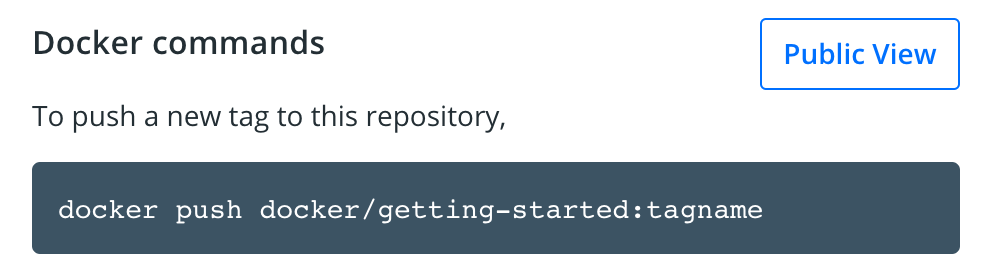
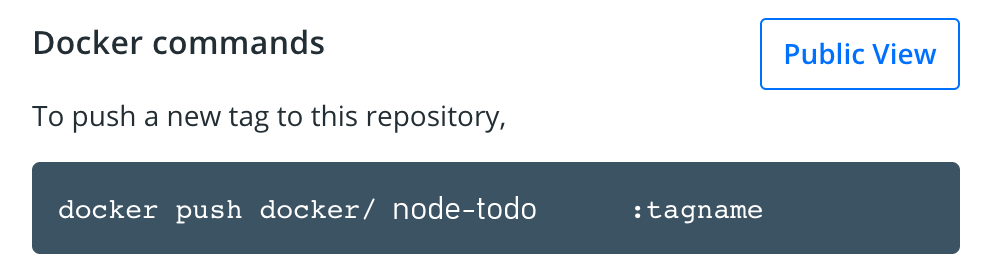
Update

Changed region(s): [[0.3735, 0.7143, 0.6536, 0.8]]

diff --git a/docs/css/styles.css b/docs/css/styles.css
@@ -44,6 +44,10 @@ h1, h2, h3, h4, .md-footer-nav__inner, .md-header-nav__title, footer.md-footer {
     font-family: Geomanist;
 }
 
+.document a {
+    text-decoration: underline;
+}
+
 .rst-content pre code {
     color: #24292f;
     background-color: #f6f8fa;
@@ -60,10 +64,6 @@ h1, h2, h3, h4, .md-footer-nav__inner, .md-header-nav__title, footer.md-footer {
     border-radius: 3px;
     font-size: 85%;
 }
-
-/* .hljs-string {
-    color: #27ae60;
-} */
 
 .rst-content blockquote {
     padding: 0 1em;

diff --git a/src/static/js/app.js b/src/static/js/app.js
@@ -53,7 +53,7 @@ function TodoListCard() {
         <React.Fragment>
             <AddItemForm onNewItem={onNewItem} />
             {items.length === 0 && (
-                <p className="text-center">You have no todo items yet! Add one above!</p>
+                <p className="text-center">No items yet! Add one above!</p>
             )}
             {items.map(item => (
                 <ItemDisplay

diff --git a/docs/tutorial/sharing-our-app/index.md b/docs/tutorial/sharing-our-app/index.md
@@ -1,62 +1,63 @@
+# Share the application
 
 Now that we've built an image, let's share it! To share Docker images, you have to use a Docker
-registry. The default registry is Docker Hub and is where all of the images we've used have come from.
+registry. The default registry is `Docker Hub` and is where all of the images we've used have come from.
+
+> **Docker ID**
+
+> A Docker ID allows you to access Docker Hub which is the world’s largest library and community for container images. Create a [Docker ID](https://hub.docker.com/signup) for free if you don’t have one.
 
 ## Create a Repo
 
-To push an image, we first need to create a repo on Docker Hub.
+To push an image, we first need to create a `repo` on `Docker Hub`.
 
-1. Go to [Docker Hub](https://hub.docker.com) and log in if you need to.
+1. [Sign up](https://www.docker.com/pricing?utm_source=docker&utm_medium=webreferral&utm_campaign=docs_driven_upgrade) or Sign in to [Docker Hub](https://hub.docker.com). 
 
-1. Click the **Create Repository** button.
+2. Click the **Create Repository** button.
 
-1. For the repo name, use `getting-started`. Make sure the Visibility is `Public`.
+3. For the repo name, use `node-todo`. Make sure the Visibility is `Public`.
 
-1. Click the **Create** button!
+4. Click the **Create** button!
+
+> **Private repositories**
+
+> Did you know that Docker offers private repositories which allows you to restrict content to specific users or teams? Check out the details on the [Docker pricing](https://www.docker.com/pricing?utm_source=docker&utm_medium=webreferral&utm_campaign=docs_driven_upgrade) page.
 
 If you look on the right-side of the page, you'll see a section named **Docker commands**. This gives
 an example command that you will need to run to push to this repo.
 
-![Docker command with push example](push-command.png){: style=width:75% }
-{: .text-center }
+<img alt="Docker command with push example" src="push-command.png" style="width:50%;">
 
 ## Pushing our Image
 
-1. In the command line, try running the push command you see on Docker Hub. Note that your command
-   will be using your namespace, not "docker".
+1.In the command line, try running the `push command` you see on Docker Hub. Note that your command will be using your **namespace**, not **"docker"**.
 
-    ```plaintext
-    $ docker push docker/getting-started
-    The push refers to repository [docker.io/docker/getting-started]
-    An image does not exist locally with the tag: docker/getting-started
-    ```
+```plaintext
+$ docker push docker/node-todo
+The push refers to repository [docker.io/docker/node-todo]
+An image does not exist locally with the tag: docker/node-todo
+```
 
-    Why did it fail? The push command was looking for an image named docker/getting-started, but
-    didn't find one. If you run `docker image ls`, you won't see one either.
+Why did it fail? The push command was looking for an image named docker/node-todo, but didn't find one. If you run `docker image ls`, you won't see one either.
+To fix this, we need to "tag" our existing image we've built to give it another name.
 
-    To fix this, we need to "tag" our existing image we've built to give it another name.
+2.Login to the Docker Hub using the command `docker login -u YOUR-USER-NAME`.
 
-1. Login to the Docker Hub using the command `docker login -u YOUR-USER-NAME`.
+3.Use the `docker tag` command to give the `node-todo` image a new name. Be sure to swap out `YOUR-USER-NAME` with your Docker ID.
 
-1. Use the `docker tag` command to give the `getting-started` image a new name. Be sure to swap out
-   `YOUR-USER-NAME` with your Docker ID.
+```bash
+docker tag getting-started YOUR-USER-NAME/node-todo
+```
 
-    ```bash
-    docker tag getting-started YOUR-USER-NAME/getting-started
-    ```
+4.Now try your push command again. If you're copying the value from Docker Hub, you can drop the `tagname` portion, as we didn't add a tag to the image name. If you don't specify a tag, Docker will use a tag called `latest`.
 
-1. Now try your push command again. If you're copying the value from Docker Hub, you can drop the 
-   `tagname` portion, as we didn't add a tag to the image name. If you don't specify a tag, Docker
-   will use a tag called `latest`.
-
-    ```bash
-    docker push YOUR-USER-NAME/getting-started
-    ```
+```bash
+docker push YOUR-USER-NAME/node-todo
+```
 
 ## Running our Image on a New Instance
 
-Now that our image has been built and pushed into a registry, let's try running our app on a brand
-new instance that has never seen this container image! To do this, we will use Play with Docker.
+Now that our image has been built and pushed into a registry, let's try running our app on a brand new instance that has never seen this container image! To do this, we will use Play with Docker.
 
 1. Open your browser to [Play with Docker](https://labs.play-with-docker.com/).
 
@@ -64,20 +65,17 @@ new instance that has never seen this container image! To do this, we will use P
 
 1. Once you're logged in, click on the "+ ADD NEW INSTANCE" link in the left side bar. (If you don't see it, make your browser a little wider.) After a few seconds, a terminal window will be opened in your browser.
 
-    ![Play with Docker add new instance](pwd-add-new-instance.png){: style=width:75% }
-{: .text-center }
+<img alt="Play with Docker add new instance" src="pwd-add-new-instance.png" style="width:75%;">
 
+1.In the terminal, start your freshly pushed app.
 
-1. In the terminal, start your freshly pushed app.
+```bash
+docker run -dp 3000:3000 YOUR-USER-NAME/node-todo
+```
 
-    ```bash
-    docker run -dp 3000:3000 YOUR-USER-NAME/getting-started
-    ```
+You should see the image get pulled down and eventually start up!
 
-    You should see the image get pulled down and eventually start up!
-
-1. Click on the 3000 badge when it comes up and you should see the app with your modifications! Hooray!
-    If the 3000 badge doesn't show up, you can click on the "Open Port" button and type in 3000.
+2.Click on the `3000` badge when it comes up and you should see the app with your modifications! Hooray! If the `3000` badge doesn't show up, you can click on the **"Open Port"** button and type in `3000`.
 
 ## Recap
 

diff --git a/docs/tutorial/updating-our-app/index.md b/docs/tutorial/updating-our-app/index.md
@@ -1,4 +1,6 @@
 
+# Update the application
+
 As a small feature request, we've been asked by the product team to
 change the "empty text" when we don't have any todo list items. They
 would like to transition it to the following:
@@ -7,26 +9,26 @@ would like to transition it to the following:
 
 Pretty simple, right? Let's make the change.
 
-## Updating our Source Code
+## Update the source code
 
-1. In the `src/static/js/app.js` file, update line 56 to use the new empty text.
+1.In the `src/static/js/app.js` file, update line **56** to use the new empty text.
 
-    ```diff
-    -                <p className="text-center">No items yet! Add one above!</p>
-    +                <p className="text-center">You have no todo items yet! Add one above!</p>
-    ```
+```html
+-                <p className="text-center">No items yet! Add one above!</p>
++                <p className="text-center">You have no todo items yet! Add one above!</p>
+```
 
-1. Let's build our updated version of the image, using the same command we used before.
+2.Let's build our updated version of the image, using the same command we used before.
 
-    ```bash
-    docker build -t getting-started .
-    ```
+```bash
+docker build -t node-todo .
+```
 
-1. Let's start a new container using the updated code.
+3.Let's start a new container using the updated code.
 
-    ```bash
-    docker run -dp 3000:3000 getting-started
-    ```
+```bash
+docker run -dp 3000:3000 node-todo
+```
 
 **Uh oh!** You probably saw an error like this (the IDs will be different):
 
@@ -36,41 +38,38 @@ docker: Error response from daemon: driver failed programming external connectiv
 ```
 
 So, what happened? We aren't able to start the new container because our old container is still
-running. The reason this is a problem is because that container is using the host's port 3000 and
+running. The reason this is a problem is because that container is using the host's `port 3000` and
 only one process on the machine (containers included) can listen to a specific port. To fix this, 
 we need to remove the old container.
-
 
 ## Replacing our Old Container
 
 To remove a container, it first needs to be stopped. Once it has stopped, it can be removed. We have two
 ways that we can remove the old container. Feel free to choose the path that you're most comfortable with.
 
-
 ### Removing a container using the CLI
 
-1. Get the ID of the container by using the `docker ps` command.
+1.Get the ID of the container by using the `docker ps` command.
 
-    ```bash
-    docker ps
-    ```
+```bash
+docker ps
+```
 
-1. Use the `docker stop` command to stop the container.
+2.Use the `docker stop` command to stop the container.
 
-    ```bash
-    # Swap out <the-container-id> with the ID from docker ps
-    docker stop <the-container-id>
-    ```
+```bash 
+# Swap out <the-container-id> with the ID from docker ps
+docker stop <the-container-id>
+```
 
-1. Once the container has stopped, you can remove it by using the `docker rm` command.
+3.Once the container has stopped, you can remove it by using the `docker rm` command.
 
-    ```bash
-    docker rm <the-container-id>
-    ```
+```bash
+docker rm <the-container-id>
+```
 
-!!! info "Pro tip"
-    You can stop and remove a container in a single command by adding the "force" flag
-    to the `docker rm` command. For example: `docker rm -f <the-container-id>`
+> You can stop and remove a container in a single command by adding the "force" flag
+to the `docker rm` command. For example: `docker rm -f <the-container-id>`
 
 ### Removing a container using the Docker Dashboard
 
@@ -80,35 +79,29 @@ much easier than having to look up the container ID and remove it.
 1. With the dashboard opened, hover over the app container and you'll see a collection of action
     buttons appear on the right.
 
-1. Click on the trash can icon to delete the container. 
+2. Click on the trash can icon to delete the container. 
 
-1. Confirm the removal and you're done!
+3. Confirm the removal and you're done!
 
-![Docker Dashboard - removing a container](dashboard-removing-container.png)
-
+<img alt="Docker Dashboard - removing a container" src="dashboard-removing-container.png" style="width:75%;">
 
 ### Starting our updated app container
 
-1. Now, start your updated app.
+1.Now, start your updated app.
 
-    ```bash
-    docker run -dp 3000:3000 getting-started
-    ```
+```bash
+docker run -dp 3000:3000 node-todo
+```
 
-1. Refresh your browser on [http://localhost:3000](http://localhost:3000) and you should see your updated help text!
+2.Refresh your browser on [http://localhost:3000](http://localhost:3000) and you should see your updated help text!
 
-![Updated application with updated empty text](todo-list-updated-empty-text.png){: style="width:55%" }
-{: .text-center }
-
-
+<img alt="Updated application with updated empty text" src="todo-list-updated-empty-text.png" style="width:55%;">
 
 ## Recap
 
 While we were able to build an update, there were two things you might have noticed:
 
-- All of the existing items in our todo list are gone! That's not a very good app! We'll talk about that
-shortly.
-- There were _a lot_ of steps involved for such a small change. In an upcoming section, we'll talk about 
-how to see code updates without needing to rebuild and start a new container every time we make a change.
+- All of the existing items in our todo list are gone! That's not a very good app! We'll talk about that shortly.
+- There were *a lot* of steps involved for such a small change. In an upcoming section, we'll talk about how to see code updates without needing to rebuild and start a new container very time we make a change.
 
 Before talking about persistence, we'll quickly see how to share these images with others.

diff --git a/docs/README.md b/docs/README.md
@@ -1,4 +1,4 @@
-## Docker overview
+# Docker overview
 
 Docker is an open platform for developing, shipping, and running applications. Docker enables you to separate your applications from your infrastructure so you can deliver software quickly. With Docker, you can manage your infrastructure in the same ways you manage your applications. By taking advantage of Docker’s methodologies for shipping, testing, and deploying code quickly, you can significantly reduce the delay between writing code and running it in production.
 

diff --git a/docs/tutorial/our-application/index.md b/docs/tutorial/our-application/index.md
@@ -1,4 +1,4 @@
-## Sample application
+# Sample application
 
 For the rest of this tutorial, we will be working with a simple todo
 list manager that is running in Node.js. If you're not familiar with Node.js,

diff --git a/docs/tutorial/getting-started/index.md b/docs/tutorial/getting-started/index.md
@@ -1,5 +1,5 @@
 
-## Orientation and setup
+# Orientation and setup
 
 Welcome! We are excited that you want to learn Docker.
 
